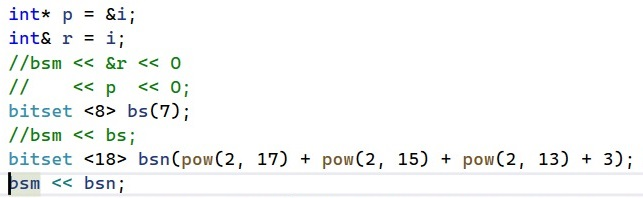
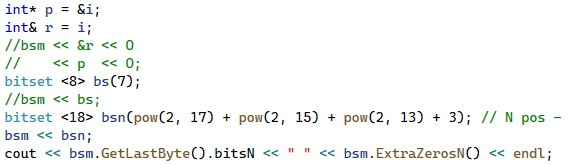
Little corrections

Changed region(s): [[0.0, 0.0303, 0.9842, 1.0]]

diff --git a/README.MD b/README.MD
@@ -1,4 +1,4 @@
-This is a BitStream realization for bits, whereas usual BitStreams can work only with bytes and are tough to understand how to be used.
+This is a BitStream realization for bits, whereas usual BitStreams can work only with bytes and are tough to understand how to be used.
 This is FINESTREAM!
 
 You need to write a Huffman Coding realization? Or some other encryption? FineStream will help you. Or maybe you need to write ``vector <bool>`` to a file or to send it easily without wasting your time to understand ``vector <bool>`` specific realization? FineStream comes in handy. You can compress your file up to 8x times for ``bool``s. Or - let's imagine - you need to store short integers from 0 to 15, do you REALLY need 8 bits? Or maybe 4 is enough? Then you could compress your file by 2x times, using FineStream with no effort.
@@ -59,3 +59,4 @@ FINE EXAMPLES:
 ![](/pictures/2bitset/0.jpg)  
 ![](/pictures/2bitset/1.jpg)  
 ![](/pictures/2bitset/2.jpg)  
+![](/pictures/2bitset/3.jpg)  
